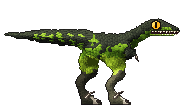
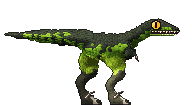
Troodon: its tail's bars on the tail only, closer to the point

Changed region(s): [[0.125, 0.2857, 0.4375, 0.4286], [0.4375, 0.3143, 0.5312, 0.4286]]

diff --git a/internal/dinopaint/troodon.go b/internal/dinopaint/troodon.go
@@ -288,9 +288,9 @@ func troodonBelly(x, y float64) float64 {
 // it, closer and narrower to the dark point.
 var troodonTailBars = func() SDF {
 	var bs []SDF
-	for i, b := range [][2]float64{{31.2, 1.7}, {27.2, 1.55}, {23.6, 1.4}, {20.4, 1.25}, {17.5, 1.1}, {14.9, 0.95}, {12.6, 0.8}} {
+	for i, b := range [][2]float64{{22.8, 1.6}, {19.6, 1.45}, {16.8, 1.3}, {14.3, 1.15}, {12.1, 1.0}, {10.2, 0.85}, {8.6, 0.7}} {
 		cx, w := b[0], b[1]
-		cy := 12.1 + 0.025*cx
+		cy := 12.0 + 0.04*cx
 		bs = append(bs, Ellipse(cx, cy, 0.65*w, 1.6+0.1*float64(6-i), -0.35))
 	}
 	u := Union(bs...)
